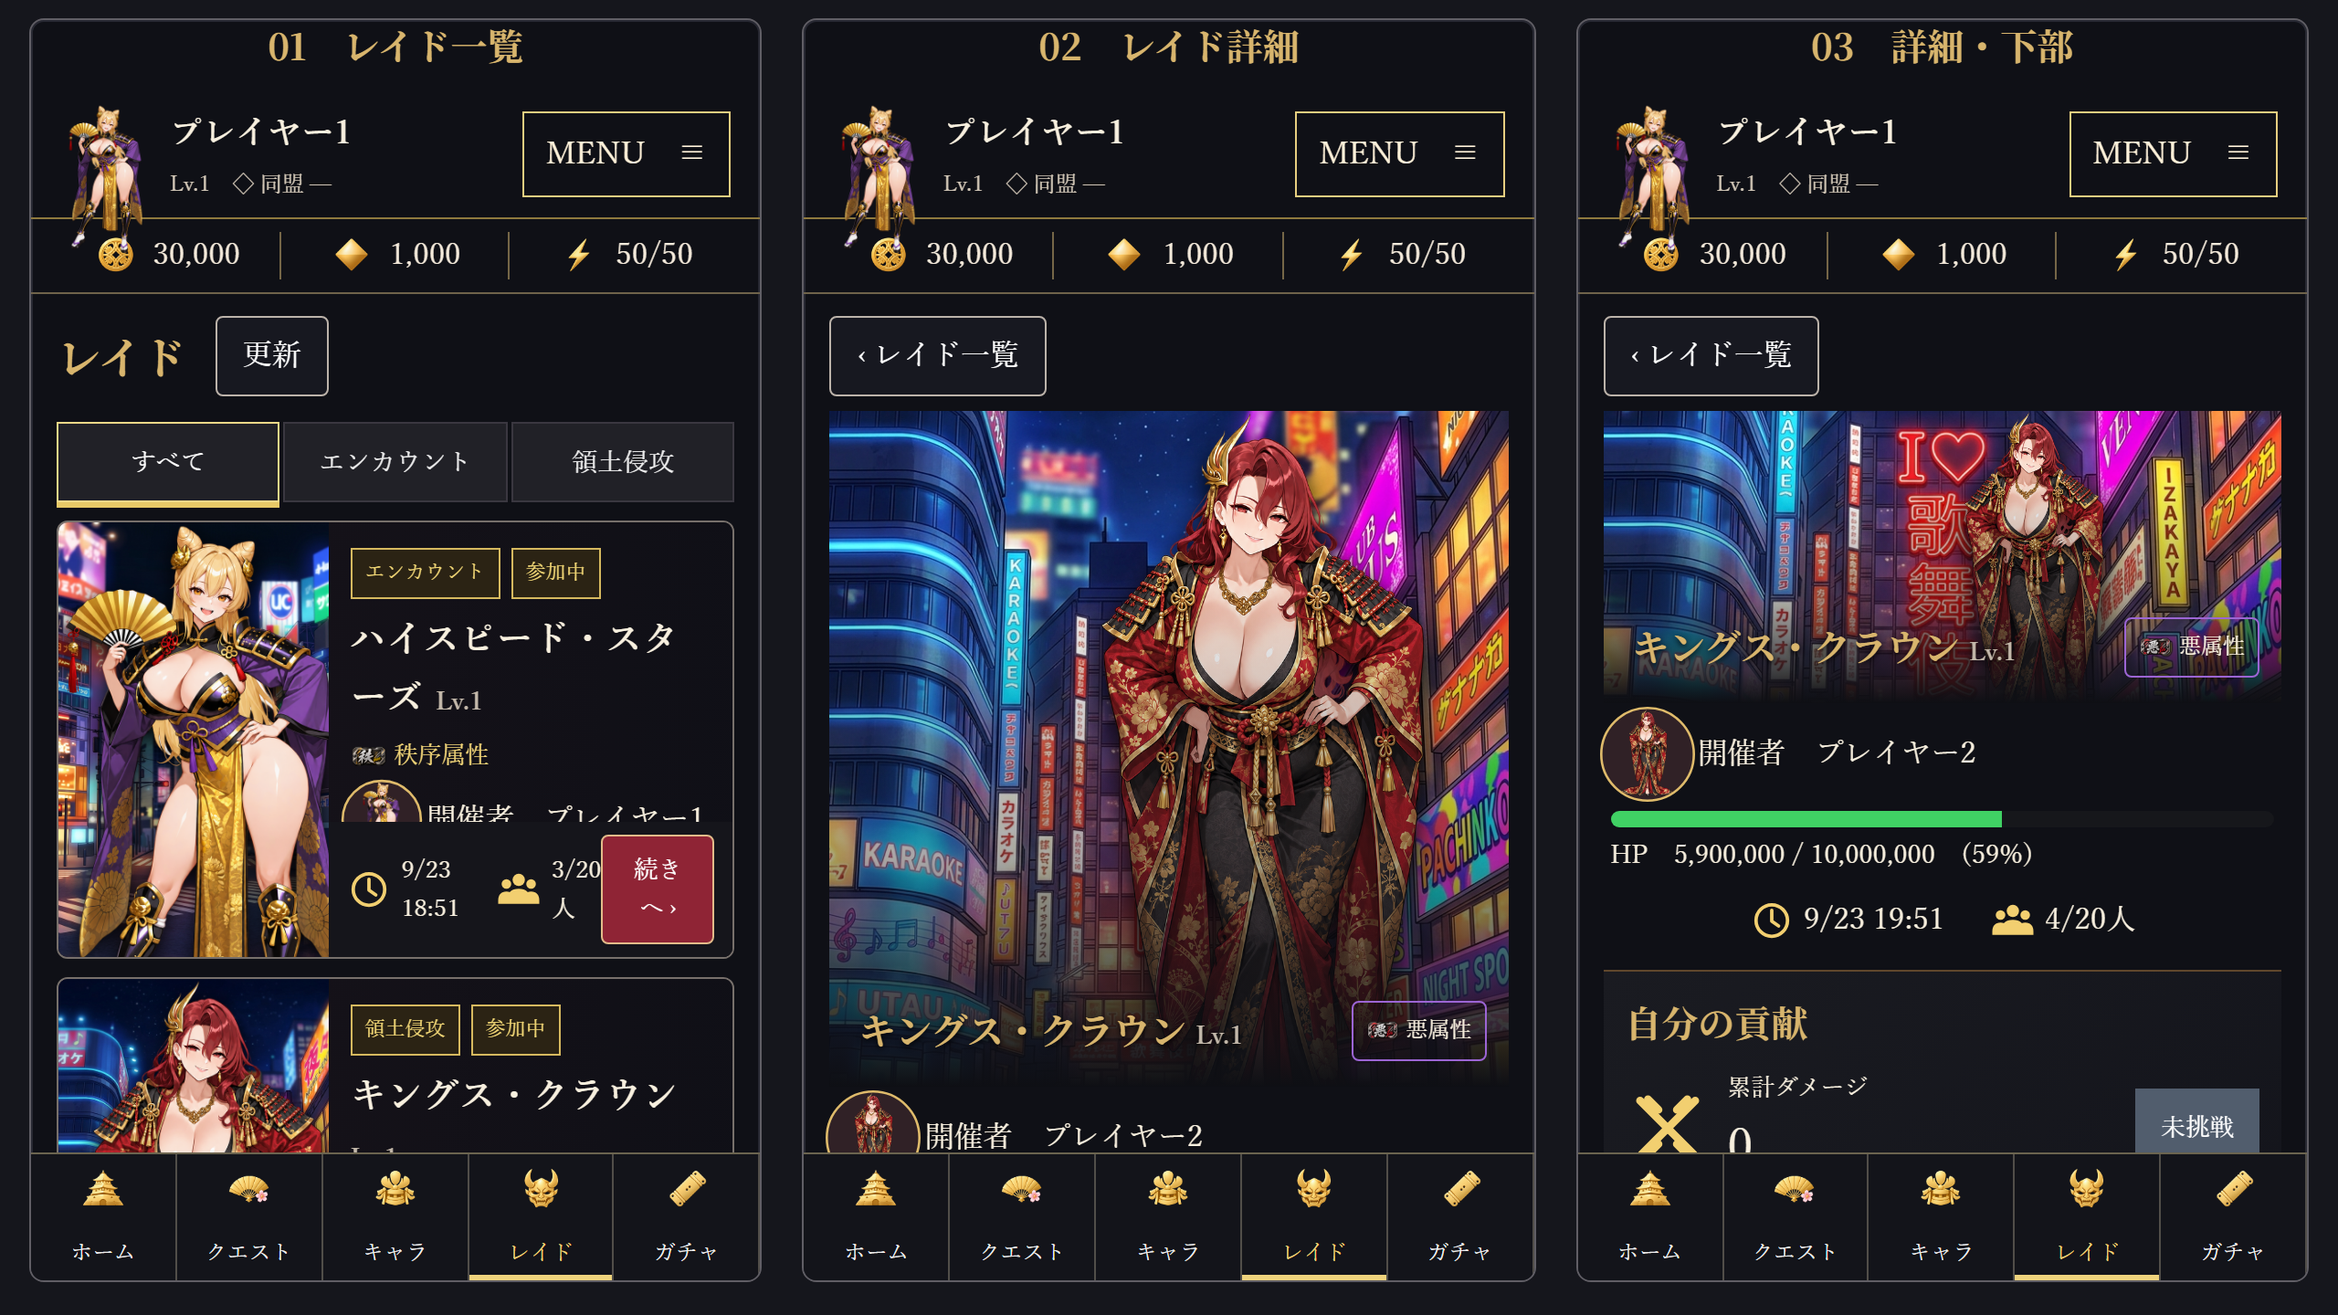
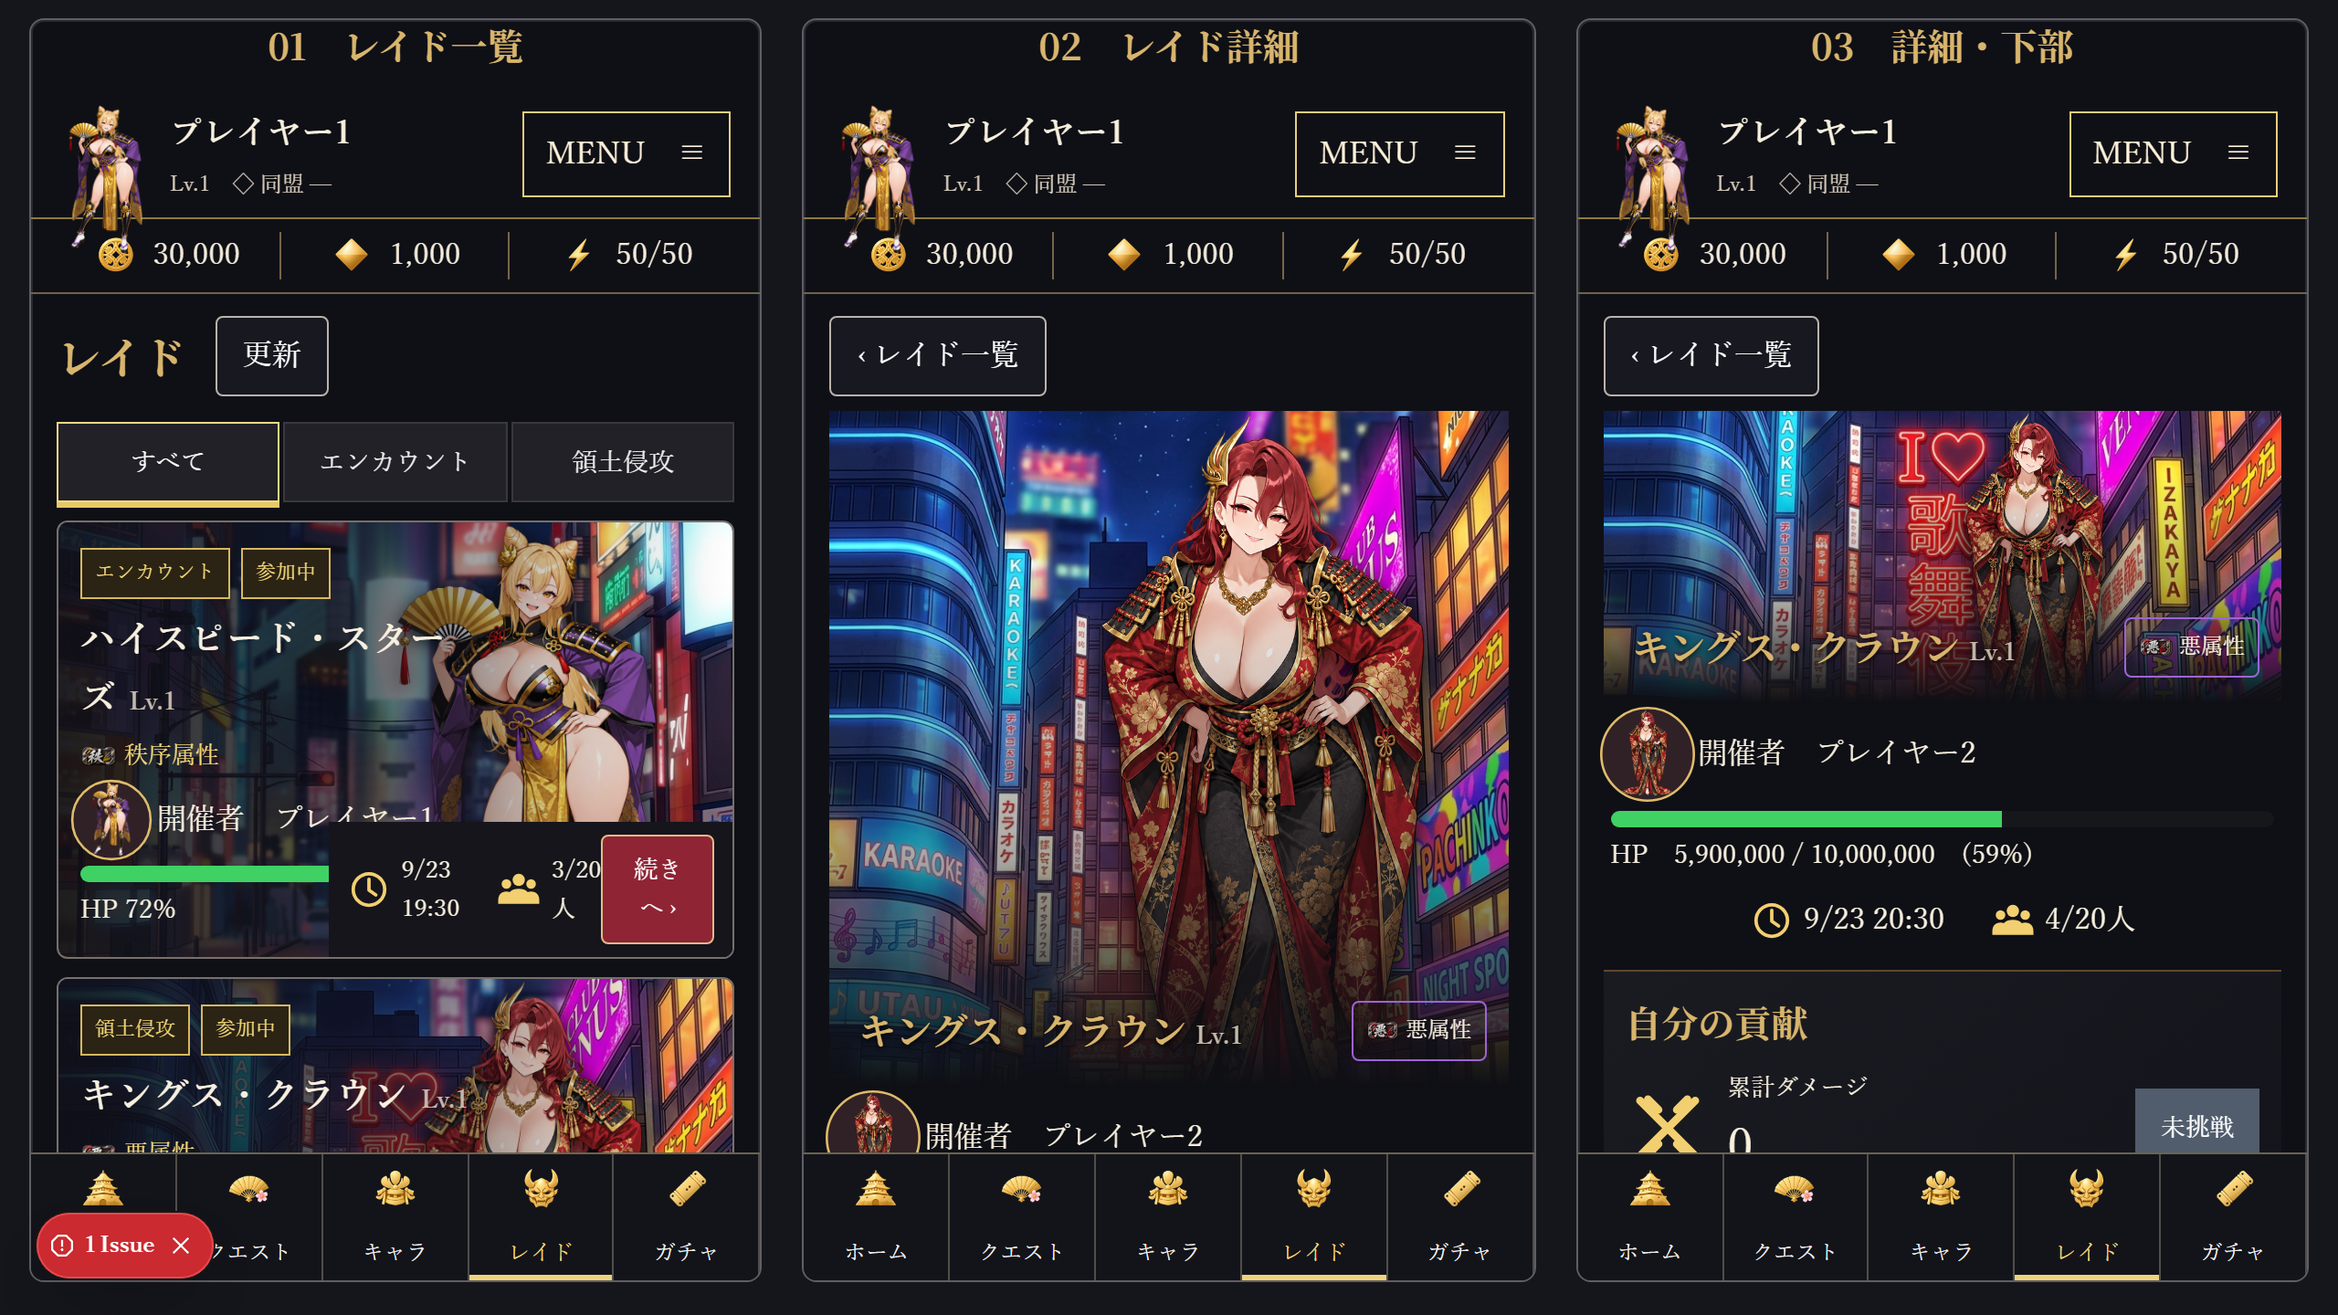
fix: use full-bleed GAME04 raid master cards

Changed region(s): [[0.0, 0.375, 0.3125, 0.875], [0.0, 0.9062, 0.0938, 1.0], [0.8125, 0.6875, 0.8438, 0.7188]]

diff --git a/src/app/components/raid/RaidCardOverlay.css b/src/app/components/raid/RaidCardOverlay.css
@@ -1,0 +1,18 @@
+/* Approved raid card composition: the art is one full-bleed stage; copy and controls sit above it. */
+.raid-approved-ui__card { display: block; height: 240px; min-height: 240px; isolation: isolate; }
+.raid-approved-ui__card-art { position: absolute; inset: 0; z-index: 0; }
+.raid-approved-ui__card-art img:first-child { position: absolute; inset: 0; width: 100%; height: 100%; object-fit: cover; }
+.raid-approved-ui__card-art img:last-child { position: absolute; right: -8%; bottom: -10%; width: 76%; height: 124%; object-fit: contain; object-position: center top; transform: none; filter: drop-shadow(0 3px 6px #000); }
+.raid-approved-ui__card-copy { position: absolute; inset: 0; z-index: 1; padding: 14px 12px 54px; background: linear-gradient(90deg, rgba(15,15,22,.94) 0%, rgba(15,15,22,.68) 43%, rgba(15,15,22,.16) 75%, transparent 100%); }
+.raid-approved-ui__card-copy h3 { max-width: 62%; }
+.raid-approved-ui__card-copy .raid-approved-ui__owner { max-width: 62%; }
+.raid-approved-ui__card-copy .raid-approved-ui__battle { max-width: 62%; }
+.raid-approved-ui__card-copy > .outlaw-button { z-index: 2; }
+
+.raid-approved__list-card { display: block; height: 240px; min-height: 240px; isolation: isolate; }
+.raid-approved__list-art { position: absolute; inset: 0; z-index: 0; }
+.raid-approved__list-art img:first-child { position: absolute; inset: 0; width: 100%; height: 100%; object-fit: cover; }
+.raid-approved__list-art img:last-child { position: absolute; right: -8%; bottom: -10%; width: 76%; height: 124%; object-fit: contain; object-position: center top; transform: none; filter: drop-shadow(0 3px 6px #000); }
+.raid-approved__list-copy { position: absolute; inset: 0; z-index: 1; padding: 14px 12px 54px; background: linear-gradient(90deg, rgba(15,15,22,.94) 0%, rgba(15,15,22,.68) 43%, rgba(15,15,22,.16) 75%, transparent 100%); }
+.raid-approved__list-copy h3, .raid-approved__list-copy .raid-approved__attribute, .raid-approved__list-copy .raid-approved__owner, .raid-approved__list-copy .raid-approved__hp { max-width: 62%; }
+.raid-approved__card-bottom { z-index: 2; }

diff --git a/src/domain/raidTopAssets.ts b/src/domain/raidTopAssets.ts
@@ -1,10 +1,10 @@
-import { CANONICAL_RAID_ATTRIBUTE_MASTER, CANONICAL_RAID_PRODUCTION } from '@/domain/gameplay/canonical/combat_production';
+import { CANONICAL_RAID_ATTRIBUTE_MASTER, GAME04_RAID_PRODUCTION_MASTER } from '@/domain/gameplay/canonical/combat_production';
 import { CHARACTERS_MASTER, getCanonicalBattleAreaName, getCanonicalBattleBackground, getCharacterTransparentImg } from '@/utils/game_constants';
 import type { RaidTopEnemy } from './raidTop';
 
 /** 表示素材だけを実マスターから引く。日次選出/戦闘編成の生成には使用しない。 */
 export function resolveRaidTopEnemy(variantId: string, memberCharacterIds?: readonly string[] | null): RaidTopEnemy | null {
-  const variant = CANONICAL_RAID_PRODUCTION.variants.find((entry) => entry.raidVariantId === variantId);
+  const variant = GAME04_RAID_PRODUCTION_MASTER.variants.find((entry) => entry.raidVariantId === variantId);
   if (!variant || memberCharacterIds === null) return null;
   const baseId = variant.areaId.toLowerCase();
   const areaName = getCanonicalBattleAreaName(baseId);
@@ -21,6 +21,6 @@ export function resolveRaidTopEnemy(variantId: string, memberCharacterIds?: read
 }
 
 /** 全7エリアの素材目録。『本日の対象』ではない。 */
-export const RAID_TOP_ENEMIES: readonly RaidTopEnemy[] = CANONICAL_RAID_PRODUCTION.variants
+export const RAID_TOP_ENEMIES: readonly RaidTopEnemy[] = GAME04_RAID_PRODUCTION_MASTER.variants
   .map((variant) => resolveRaidTopEnemy(variant.raidVariantId))
   .filter((enemy): enemy is RaidTopEnemy => enemy !== null);

diff --git a/src/domain/gameplay/canonical/combat_production.ts b/src/domain/gameplay/canonical/combat_production.ts
@@ -11,6 +11,8 @@ export const CANONICAL_PVP_MATCHMAKING = Object.freeze(matchmakingSource);
 export const CANONICAL_RANKING_REWARDS = Object.freeze(rankingRewardsSource);
 export const CANONICAL_PVP_RANKING_REWARDS = Object.freeze(rankingRewardsSource);
 export const CANONICAL_RAID_PRODUCTION = Object.freeze(raidSource);
+/** GAME04 レイド表示・開催契約の採用マスター。raid_production_20260830.json のIDを保持する。 */
+export const GAME04_RAID_PRODUCTION_MASTER = Object.freeze(raidSource);
 export const CANONICAL_RAID_ATTRIBUTE_MASTER = Object.freeze(
   Object.fromEntries(raidBossSource.bosses.map((boss) => [boss.townId.toLowerCase(), boss.attribute])),
 );

diff --git a/src/app/qa/raid-approved/ApprovedRaidPreview.tsx b/src/app/qa/raid-approved/ApprovedRaidPreview.tsx
@@ -4,6 +4,7 @@ import type { RaidTopEntry, RaidTopEnemy } from '@/domain/raidTop';
 import { createTopFixture } from '@/app/qa/raid-top/topFixture';
 import './ApprovedRaidPreview.css';
 import './ApprovedRaidScrollbar.css';
+import '../../components/raid/RaidCardOverlay.css';
 
 type IconName = 'clock' | 'people' | 'swords' | 'scroll' | 'handshake' | 'chest' | 'armor' | 'victory' | 'medal';
 const icon = (name: IconName, label = '') => <img className="raid-approved__icon" src={`/ui/raid/${name}.svg`} alt={label} />;

diff --git a/src/app/components/raid/RaidTopApproved.tsx b/src/app/components/raid/RaidTopApproved.tsx
@@ -7,6 +7,7 @@ import { getRaidRoomLifecyclePresentation } from '@/domain/raidRoomLifecyclePres
 import type { RaidPlayerSummary } from '@/domain/raidRoom';
 import OutlawButton from '../ui/OutlawButton';
 import './RaidTopApproved.css';
+import './RaidCardOverlay.css';
 
 type Props = Pick<RaidTopData, 'participating' | 'rescues'> & {
   now: number | null;

diff --git a/docs/design/raid/2026-09-23/IMPLEMENTATION_VERIFICATION.md b/docs/design/raid/2026-09-23/IMPLEMENTATION_VERIFICATION.md
@@ -5,7 +5,7 @@
 | 境界 | 結果 | 接続先 |
 |---|---|---|
 | レイド本体トップ | PASS | `RaidRoomConnectedBrowser → RaidTop → RaidTopApproved` |
-| ボス／背景 | PARTIAL | `resolveRaidTopEnemy` が `CANONICAL_RAID_PRODUCTION` と既存表示素材を解決。背景パスは現行マスターに代替の正式レイド背景がないため、旧表示マッピングの残件を明示 |
+| ボス／武将／属性／背景 | PASS (master connected) | 採用マスターは `src/domain/gameplay/canonical/data/raid_production_20260830.json`。IDは `RAID_SHINJUKU_V1` 等の `raidVariantId`。`GAME04_RAID_PRODUCTION_MASTER → resolveRaidTopEnemy → RaidTopEntry.enemy → RaidTopApproved / RaidRoomDetail / ApprovedRaidPreview` の同一経路で接続。武将IDは各variantの `memberCharacterIds`、属性は `raid_bosses_20260822.json` のtownId対応。背景はareaId対応の表示素材へ解決 |
 | 属性 | PASS (source version noted) | `raid_bosses_20260822.json` の正式凍結属性を `CANONICAL_RAID_ATTRIBUTE_MASTER` 経由で表示。2026-08-30 raid production本体に属性列がないため、戦闘値の変更はしていない |
 | レイド分類 | PARTIAL | RPCに `origin` がある場合のみ `encounter` / `territory` を使用。未提供時は `difficultyId` で推測せず未分類のまま |
 | 開催者 | PASS | `RaidTopEntry.room.owner` の `userId` / `name` / `leaderIconUrl`。閲覧者・最後の参加者で代用しない |
@@ -26,6 +26,8 @@
 - QA専用ツールバー、Mockシナリオ説明、戦闘帰還Mock、比較用の実装注記は本体表示から除去した。
 - 詳細アクションは2列×2行に修正し、時計・人数・挑戦・行動力のUnicode代用を専用SVGへ統一した。
 - 本体の表示は `RaidTopEntry.room.owner` と `room.hp`、`participantCount`、`expiresAt`、敵属性を直接参照する。承認モック固有の固定名・固定HP・固定キャラ画像は残していない。
+- 旧 `src/domain/redesign/raid.ts` の `RAID_MASTERS` は今回のレイド一覧・詳細・比較QAの表示経路から使用していない。対象3画面はGAME04 master経路へ統一した。
+- 一覧カードは画像領域／テキスト領域の左右分割を廃止し、全面背景・キャラクター・情報・操作を同一カード内で重ねる構造へ変更した。
 - ソート処理は維持し、説明文「残り時間が短い順」は本体・Preview・Redesign一覧から削除した。
 - QA詳細は実際の `.ui-hub-page-scroll` を縦スクロールし、詳細下部のCTAまで到達できることを確認した。スクロールバーは7px、金色トラック／つまみで承認デザインに合わせた。
 - 承認Previewのパネルも固定高さ＋縦スクロールへ変更し、不透明stickyフッターがカード内容を視覚的に覆わない配置へ修正した。
@@ -52,7 +54,7 @@
 | 区分 | 残件 | 完了扱い |
 |---|---|---|
 | 正式データ | 最新raid production本体に属性列とorigin列がない。属性は旧正式凍結boss masterを参照して表示し、origin未提供時は分類を推測しない | 属性表示は実装済み。最新本体への属性/origin統合は未接続 |
-| 素材・背景 | `getCanonicalBattleBackground` が `bg_street_*.jpg` を参照。正式GAME04レイド背景の確定マッピングが未供給 | 未完了。素材制作・正本マッピング待ち |
+| 素材 | `bg_street_*.jpg` は現行GAME04エリア表示素材として接続済み。ただし承認モックと同一の専用レイド背景が別途必要な場合はその画像のみ制作待ち | UI実装完了。専用背景画像のみ供給待ち |
 | 素材供給 | `public/ui/raid/` のSVG9種は比較用の未承認制作物。正式共通アイコン供給後に差替え | 未完了。正式採用済みとして扱わない |
 | QA検証 | Mock RPCに `get_quest_raid_bonus_v1` の未処理呼出しが残る。PGRST202相当では画面表示を阻害しないが、console clean受入にはQA stubまたは正式RPCが必要 | 未完了。機能接続残件 |
 

diff --git a/docs/design/raid/2026-09-23/ASSET_REQUIREMENTS.md b/docs/design/raid/2026-09-23/ASSET_REQUIREMENTS.md
@@ -16,10 +16,10 @@
 | 通貨・行動力 | 正式な銭・輝石・行動力 | 既存接続確認 |
 | 属性 | GAME04正式6属性 | `raid_bosses_20260822.json` のEVIL/ORDER/JUSTICE/CHAOSを表示接続。残りエリアの正式属性と最新productionへの統合は未確定 |
 | 開催者顔 | 対応キャラの正式顔クロップ | 開催者データ接続確認 |
-| ボス・背景 | 正式武将と対応背景 | 素材対応確認 |
+| ボス・背景 | 正式武将と対応背景 | `raid_production_20260830.json` のvariant／memberCharacterIds／areaIdへ接続済み。承認モック専用背景が必要な差分のみ制作待ち |
 | Header／Footer | 共通正式アイコン | 既存接続維持 |
 
-採用元：ボス／背景は`src/domain/raidTopAssets.ts`経由の現行マスター解決、開催者顔は`RaidTopEntry.room.owner`の開催者IDに紐づく表示データ。背景の正式GAME04レイド素材は未確定のため旧背景マッピングを残件として記録する。今回制作した9図柄は承認モックに不足していた専用図柄であり、正式アート監修済み共通アイコンではない。Production公開前に共通素材担当が正式版を供給し、同一パスまたは明示マッピングで置換する。
+採用元：ボス／武将／背景は`src/domain/gameplay/canonical/data/raid_production_20260830.json`を`GAME04_RAID_PRODUCTION_MASTER`として読み、`src/domain/raidTopAssets.ts`で表示モデルへ解決する。開催者顔は`RaidTopEntry.room.owner`の開催者IDに紐づく表示データ。今回制作した9図柄は承認モックに不足していた専用図柄であり、正式アート監修済み共通アイコンではない。Production公開前に共通素材担当が正式版を供給し、同一パスまたは明示マッピングで置換する。
 
 比較画像：`comparison/raid-approved-preview-1536.png`、`comparison/raid-approved-preview-390.png`。固定Preview：`/qa/raid-approved`（Mock環境のみ）。
 不足はユーザー側の制作へ渡せる具体的な依頼にする。無理な代用・無断生成・装飾省略はしない。

diff --git a/docs/design/raid/2026-09-23/comparison/master-connection.md b/docs/design/raid/2026-09-23/comparison/master-connection.md
@@ -1,0 +1,19 @@
+# GAME04レイドマスター接続記録
+
+採用ファイル: `src/domain/gameplay/canonical/data/raid_production_20260830.json`
+
+| raidVariantId | areaId | raidName | 武将ID（memberCharacterIds） |
+|---|---|---|---|
+| `RAID_SHINJUKU_V1` | `SHINJUKU` | キングス・クラウン | `char_reiji_01`, `char_mio_01`, `char_takuro_01`, `char_leon_01`, `char_kageyama_01` |
+| `RAID_SHIBUYA_V1` | `SHIBUYA` | ハイスピード・スターズ | `char_ageha_01`, `char_leo_01`, `char_sora_01`, `char_reina_01`, `char_noa_01` |
+| `RAID_IKEBUKURO_V1` | `IKEBUKURO` | アイアンウォール | `char_koharu_01`, `char_takeshi_01`, `char_momoko_01`, `char_riki_01`, `char_sakura_01` |
+| `RAID_ROPPONGI_V1` | `ROPPONGI` | ロイヤル・フラッシュ | `char_kaede_01`, `char_taiga_01`, `char_maya_01`, `char_seiya_01`, `char_cecile_01` |
+| `RAID_AKIHABARA_V1` | `AKIHABARA` | グリッチ・コード | `char_karen_01`, `char_miyabi_01`, `char_alice_01`, `char_rui_01`, `char_maya_01` |
+| `RAID_KAWASAKI_V1` | `KAWASAKI` | ブレイクダウン | `char_go_01`, `char_kengo_01`, `char_tetsu_01`, `char_lucas_01`, `char_riki_01` |
+| `RAID_YOKOHAMA_V1` | `YOKOHAMA` | ブルー・レクイエム | `char_genji_01`, `char_long_01`, `char_sakura_01`, `char_cecile_01`, `char_taiga_01` |
+
+接続経路:
+
+`raid_production_20260830.json` → `GAME04_RAID_PRODUCTION_MASTER` → `resolveRaidTopEnemy(raidVariantId)` → `RaidTopEntry.enemy` → `RaidTopApproved` / `RaidRoomDetail` / `ApprovedRaidPreview`。
+
+属性は `raid_bosses_20260822.json` の `townId` 対応を `CANONICAL_RAID_ATTRIBUTE_MASTER` で参照する。背景は `areaId` 対応の表示素材、武将画像は `memberCharacterIds` を `CHARACTERS_MASTER` に解決する。旧 `src/domain/redesign/raid.ts` の `RAID_MASTERS` は対象3画面の表示経路では使用しない。

diff --git a/docs/design/raid/2026-09-23/comparison/comparison-inventory.md b/docs/design/raid/2026-09-23/comparison/comparison-inventory.md
@@ -24,4 +24,6 @@
 ## 未修正点
 
 - ボス・背景など正式素材の差分は素材供給・正本マッピング待ち。簡易図形や別用途素材には置換していない。
+- 今回の比較では、ボス名・武将・属性・背景は `raid_production_20260830.json` のvariant IDを起点にした同一表示経路で確認した。
+- マスターの全variant／武将IDは [master-connection.md](./master-connection.md) に固定記録した。
 - レイド専用SVG9種は未承認素材のまま。正式採用扱いにはしていない。
